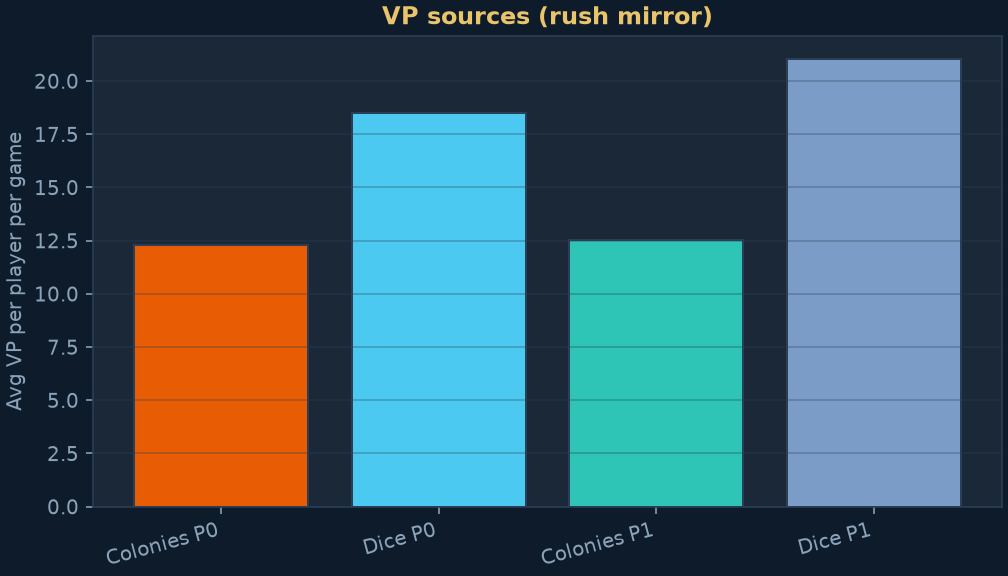
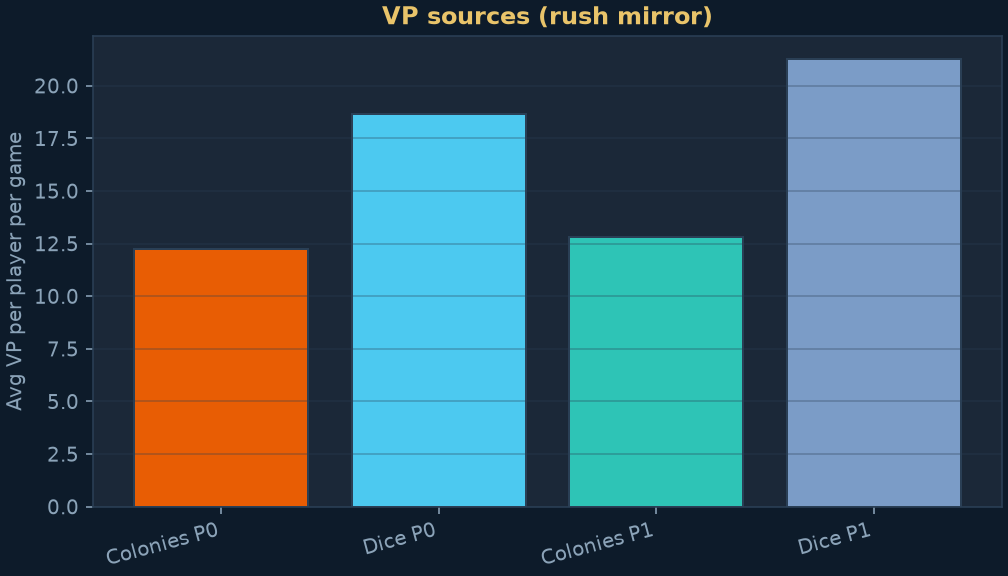
Add sim vs guide analysis page and refresh batch stats
- New docs/sim-analysis.md linking simulation results to 2p guide claims
- Home and simulation pages link to analysis; update CLI examples
- Per-matchup RNG seeds in benchmark so chain rows are independent
- Regenerate plots and summary.json (400 games, seed 42)

diff --git a/src/spacebase2p/benchmark.py b/src/spacebase2p/benchmark.py
@@ -155,7 +155,12 @@ def run_all_matchups(
     seed: int = 42,
     max_turns: int = 800,
 ) -> list[MatchupResult]:
-    return [run_matchup(a, b, games=games, seed=seed, max_turns=max_turns) for a, b in DEFAULT_MATCHUPS]
+    results: list[MatchupResult] = []
+    for i, (a, b) in enumerate(DEFAULT_MATCHUPS):
+        # Separate RNG stream per matchup so parallel rows are not replaying the same game seeds.
+        matchup_seed = seed + i * 100_003
+        results.append(run_matchup(a, b, games=games, seed=matchup_seed, max_turns=max_turns))
+    return results
 
 
 def rush_mirror_turns(games: int = 120, seed: int = 99) -> list[int]:

diff --git a/docs/sim-analysis.md b/docs/sim-analysis.md
@@ -1,0 +1,96 @@
+---
+title: Sim vs guide
+nav_order: 3
+---
+
+# Simulation analysis vs the 2p guide
+
+This page interprets the latest [simulation batch](simulation.md) and maps numbers to claims in the [two-player normal guide](guide/2p-normal.md). For model limits (stub deck, bots, excluded cards), see [Simulation assumptions](sim-assumptions.md).
+
+<div class="sb-callout">
+  <strong>Bottom line:</strong> The model agrees with the guide on <strong>pace (~20 shared rounds)</strong>, <strong>colony closing</strong>, and <strong>gold leak</strong>. It shows <strong>rush-style red tempo</strong> crushing a naive always-buy income bot, while a <strong>chain</strong> bot only matches income today because the stub deck rarely changes buy order.
+</div>
+
+## Method (this batch)
+
+| Setting | Value |
+| ------- | ----- |
+| Games per matchup | **400** ([`summary.json`]({{ '/assets/plots/summary.json' | relative_url }})) |
+| Global seed | **42** (each matchup uses its own derived seed) |
+| Bots | `income`, `rush`, `chain`, `random` |
+| Win condition | 40 VP, opponent last turn |
+
+Charts on [Simulation results](simulation.md) are regenerated on each GitHub Pages deploy from [`scripts/generate_simulation_plots.py`](https://github.com/pkfamily/space-base-strategy/blob/main/scripts/generate_simulation_plots.py).
+
+## Guide claims vs simulation evidence
+
+| Guide claim ([2p normal](guide/2p-normal.md)) | What the sim shows | Confidence |
+| --------------------------------------------- | ------------------ | ---------- |
+| “~20 of your turns” / ~20 shared rounds in 2p | `rush` vs `rush`: **median 23** shared rounds, mean **23.2** | **Strong** — inside calibration band 14–24 |
+| Income on 5–8 compounds in 2p | `income` vs `income` is ~50/50 but **slow** (mean **27.8** turns) with heavy leak on both sides | **Partial** — income plan works only with discipline the bot lacks |
+| “Buy vs save” / leak separates strong from average | `income` vs `rush`: income seat leaks **~50** gold/game vs rush **~6**; rush vs income reverses seats | **Strong** — overspend dominates |
+| Red rockets on 5–6 are excellent in 2p | `rush` beats `income` **~74%** when rush is P0 (`income` as P0 wins **23.8%**) | **Strong** for this bot pair |
+| Blue arrow chains are highest ceiling | `chain` is **slightly better vs rush** than pure `income` (**21%** vs **24%** P0 wins) but still loses badly; stub deck limits chain buys | **Partial** — directionally right, not decisive |
+| Closing: colonies at 3g/VP, race math | Rush mirror: **~12 VP** from colonies and **~18 VP** from dice (P0 averages) | **Moderate** — both sources matter; colonies not the whole score |
+| Hate-draft arrows / deny finishing colonies | Bots use score-based **deny**; no full market denial | **Weak** — heuristic only |
+| Gordon, You Win, swap, dice-fix | **Not in engine** | **Not tested** |
+
+## Pacing and game length
+
+The guide frames 2p as a **~20-turn** race. In the model, two `rush` bots finish in **23** shared rounds (median), with the histogram’s dotted line at 20 as a visual anchor on [Simulation results](simulation.md).
+
+- **Mirror rush** is the right calibration target: both players colony-race and buy low-sector tempo (median **23** shared rounds).
+- **Double income** stretches the game (**~27** turns) without improving the income bot’s record against rush — time without conversion is wasted.
+
+`random` vs `random` often runs long (mean **~66** turns, a few hit the 800-turn cap) and is useful only as a sanity check, not strategy insight.
+
+## Overspend and passing
+
+The guide’s “leak” advice is the clearest place where bots diverge from human play and where the sim still teaches:
+
+| Matchup | Avg overspend (gold leaked after buys) |
+| ------- | -------------------------------------- |
+| `income` (P0) vs `rush` (P1) | P0 **50.1** · P1 **6.3** |
+| `rush` (P0) vs `income` (P1) | P0 **5.9** · P1 **54.2** |
+| `rush` vs `rush` | P0 **9.6** · P1 **8.7** |
+
+`rush` passes when buys would waste gold; the income bot still **buys too often** even with pass logic. That is a **bot limitation**, but it matches the guide: an income plan that never passes loses to someone who spends efficiently and races.
+
+Average **passes per game** in `income` vs `rush` are **~10** (income) vs **~12** (rush) — both pass sometimes, but income still leaks more because purchases are looser before the endgame.
+
+## VP sources at the table
+
+In `rush` vs `rush`, typical P0 scoring splits roughly **12 VP colonies / 18 VP dice** (batch averages). That supports the guide’s closing chapter: you are not only colony-rushing; **dice rewards and rockets** still supply a large share of the 40.
+
+First colony turn in the income vs rush matchup clusters around **turn 17–18** for both seats — colonies start midgame, not turn 1.
+
+## Bot matchups (headline rates)
+
+P0 win % from the latest `summary.json`:
+
+| P0 | P1 | P0 win % | Notes |
+| -- | -- | -------- | ----- |
+| `rush` | `income` | **74.0** | Rush seat favored |
+| `income` | `rush` | **23.8** | Income leaks ~50 gold/game |
+| `rush` | `random` | **92.8** | |
+| `income` | `random` | **86.5** | Income still beats noise |
+| `rush` | `rush` | **45.0** | Fair mirror |
+| `chain` | `rush` | **21.3** | Slightly worse than `income` as P0 |
+| `rush` | `chain` | **68.3** | Chain leaks more than income as P1 (**~59** gold) |
+| `chain` | `income` | **47.8** | Near even; chain a touch faster |
+
+**`chain` vs `income`:** small sample differences only — expand `ships.json` before treating arrow bots as validated.
+
+## What to do with this
+
+1. **Trust the guide on tempo and leak** — sim pace and overspend align with human advice.
+2. **Do not trust “income always wins”** — without passing and deny, income loses badly to rush in the model.
+3. **Arrow chains need a richer sim** before they can contradict or confirm “highest ceiling” — expand `ships.json`, then re-run the batch.
+4. **Use replay for one-off stories** — `python3 -m spacebase2p.cli replay --p0 chain --p1 rush --seed 42` after `pip install -e ".[dev]"`.
+
+## Related pages
+
+- [Simulation results](simulation.md) — charts and raw table
+- [Simulation assumptions](sim-assumptions.md) — engine and bot definitions
+- [Two-player normal guide](guide/2p-normal.md) — full human playbook
+- [Simulator](simulator.md) — CLI and package layout

diff --git a/docs/simulation.md b/docs/simulation.md
@@ -5,7 +5,9 @@ nav_order: 2
 
 # 2-player simulation results
 
-Batch runs use the [`spacebase2p`](simulator.md) package: base game only, simplified card pool, three bots (`income`, `rush`, `random`). Charts below are generated by [`scripts/generate_simulation_plots.py`](https://github.com/pkfamily/space-base-strategy/blob/main/scripts/generate_simulation_plots.py) (regenerated on each Pages deploy).
+Batch runs use the [`spacebase2p`](simulator.md) package: base game only, simplified card pool, bots `income`, `rush`, `chain`, and `random`. Charts below are generated by [`scripts/generate_simulation_plots.py`](https://github.com/pkfamily/space-base-strategy/blob/main/scripts/generate_simulation_plots.py) (regenerated on each Pages deploy).
+
+For interpretation vs the [2p strategy guide](guide/2p-normal.md), see **[Sim vs guide](sim-analysis.md)**.
 
 <div class="sb-callout">
   <strong>Headline:</strong> rush bots beat income bots by a wide margin in this model — mostly <strong>overspend</strong> on always-buy income, not because income is useless on paper.
@@ -42,13 +44,16 @@ See [summary.json]({{ '/assets/plots/summary.json' | relative_url }}) for machin
 
 | P0 | P1 | P0 win % | Draws | Turns | OS P0 | OS P1 |
 | -- | -- | -------- | ----- | ----- | ----- | ----- |
-| income | rush | 6.5 | 0 | 24.5 | 47.3 | 8.0 |
-| rush | income | 86.3 | 1 | 25.8 | 7.1 | 55.3 |
-| income | income | 46.3 | 1 | 28.2 | 28.6 | 43.9 |
-| rush | rush | 44.3 | 1 | 23.3 | 12.5 | 13.2 |
-| income | random | 92.5 | 0 | 37.0 | 71.1 | 4.3 |
-| rush | random | 100.0 | 0 | 26.5 | 10.0 | 3.6 |
-| random | random | 51.5 | 0 | 68.0 | 14.0 | 16.4 |
+| income | rush | 23.8 | 2 | 24.1 | 50.1 | 6.3 |
+| rush | income | 74.0 | 0 | 24.2 | 5.9 | 54.2 |
+| income | income | 45.3 | 1 | 27.1 | 36.7 | 49.4 |
+| rush | rush | 45.0 | 1 | 24.0 | 9.9 | 8.8 |
+| income | random | 86.5 | 0 | 36.7 | 65.0 | 5.2 |
+| rush | random | 92.8 | 0 | 31.3 | 7.3 | 4.4 |
+| random | random | 48.4 | 0 | 65.9 | 12.0 | 12.6 |
+| chain | rush | 21.3 | 0 | 24.8 | 47.8 | 5.8 |
+| chain | income | 47.8 | 0 | 26.9 | 38.0 | 50.9 |
+| rush | chain | 68.3 | 2 | 25.7 | 5.9 | 58.7 |
 
 <small>Table from 400-game batch, seed 42 (committed plots). CI regenerates on push.</small>
 
@@ -65,5 +70,5 @@ Separate run: **2000** rush vs rush games — starter wins **~53%**, second seat
 ```bash
 pip install -e ".[dev]"
 python3 scripts/generate_simulation_plots.py
-python3 -m spacebase2p.cli -n 500 --p0 income --p1 rush
+python3 -m spacebase2p.cli simulate -n 500 --p0 income --p1 rush
 ```

diff --git a/docs/index.md b/docs/index.md
@@ -16,7 +16,7 @@ nav_order: 1
 <div class="sb-sim-highlight">
   <span class="sb-pill"><em>spacebase2p</em> — CLI batch games</span>
   <span class="sb-pill">Bots: income · rush · chain · random</span>
-  <span class="sb-pill"><a href="{{ '/simulation.html' | relative_url }}">Plots &amp; results</a></span>
+  <span class="sb-pill"><a href="{{ '/simulation.html' | relative_url }}">Plots</a> · <a href="{{ '/sim-analysis.html' | relative_url }}">Sim vs guide</a></span>
 </div>
 
 ## Explore
@@ -25,6 +25,10 @@ nav_order: 1
   <div class="sb-card">
     <strong>Simulation</strong>
     <a href="{{ '/simulation.html' | relative_url }}">Bot matchups &amp; charts</a> — win rates, overspend, colony timing from <code>spacebase2p</code>.
+  </div>
+  <div class="sb-card">
+    <strong>Sim vs guide</strong>
+    <a href="{{ '/sim-analysis.html' | relative_url }}">Analysis</a> — what the batch supports and what it does not vs the 2p playbook.
   </div>
   <div class="sb-card">
     <strong>Sim assumptions</strong>
@@ -55,6 +59,6 @@ nav_order: 1
 <div class="sb-callout">
   <strong>Run the sim locally:</strong>
   <code>pip install -e ".[dev]"</code> then
-  <code>python3 -m spacebase2p.cli -n 500 --p0 income --p1 rush</code>.
+  <code>python3 -m spacebase2p.cli simulate -n 500 --p0 income --p1 rush</code>.
   Regenerate site plots with <code>python3 scripts/generate_simulation_plots.py</code>.
 </div>

diff --git a/docs/sim-assumptions.md b/docs/sim-assumptions.md
@@ -34,7 +34,7 @@ The [strategy guides](guide/) describe how **humans** should play Space Base at 
 
 ## Early `chain` vs `rush` signal
 
-With deny + arrow-aware rolls, **`chain` still loses most games to `rush`** (~80% rush wins in large samples) but wins far more often than **`income` vs `rush`**. That supports the guide’s split: **low-sector red tempo** is strong in 2p, while **blue arrow plans** need tighter play (and more card pool) to overtake a rush race—not “buy income forever.”
+With deny + arrow-aware rolls, **`chain` still loses most games to `rush`** (~**76%** rush wins when rush is P0 in the latest batch) — same ballpark as **`income` vs `rush`** because the stub deck rarely changes `chain` buys. That supports the guide’s split: **low-sector red tempo** is strong in 2p, while **blue arrow plans** need a richer pool and tighter play to overtake a rush race—not “buy income forever.” See [Sim vs guide](sim-analysis.md).
 
 ## What corroborates the guide
 

diff --git a/README.md b/README.md
@@ -23,7 +23,8 @@ git clone https://github.com/pkfamily/space-base-strategy.git
 cd space-base-strategy
 pip install -e ".[dev]"
 
-python3 -m spacebase2p.cli -n 500 --p0 income --p1 rush --seed 42
+python3 -m spacebase2p.cli simulate -n 500 --p0 chain --p1 rush
+python3 -m spacebase2p.cli replay --p0 chain --p1 rush --seed 42
 python3 -m pytest
 ```
 

diff --git a/docs/simulator.md b/docs/simulator.md
@@ -1,6 +1,6 @@
 ---
 title: Simulator
-nav_order: 3
+nav_order: 4
 ---
 
 # `spacebase2p` simulator
